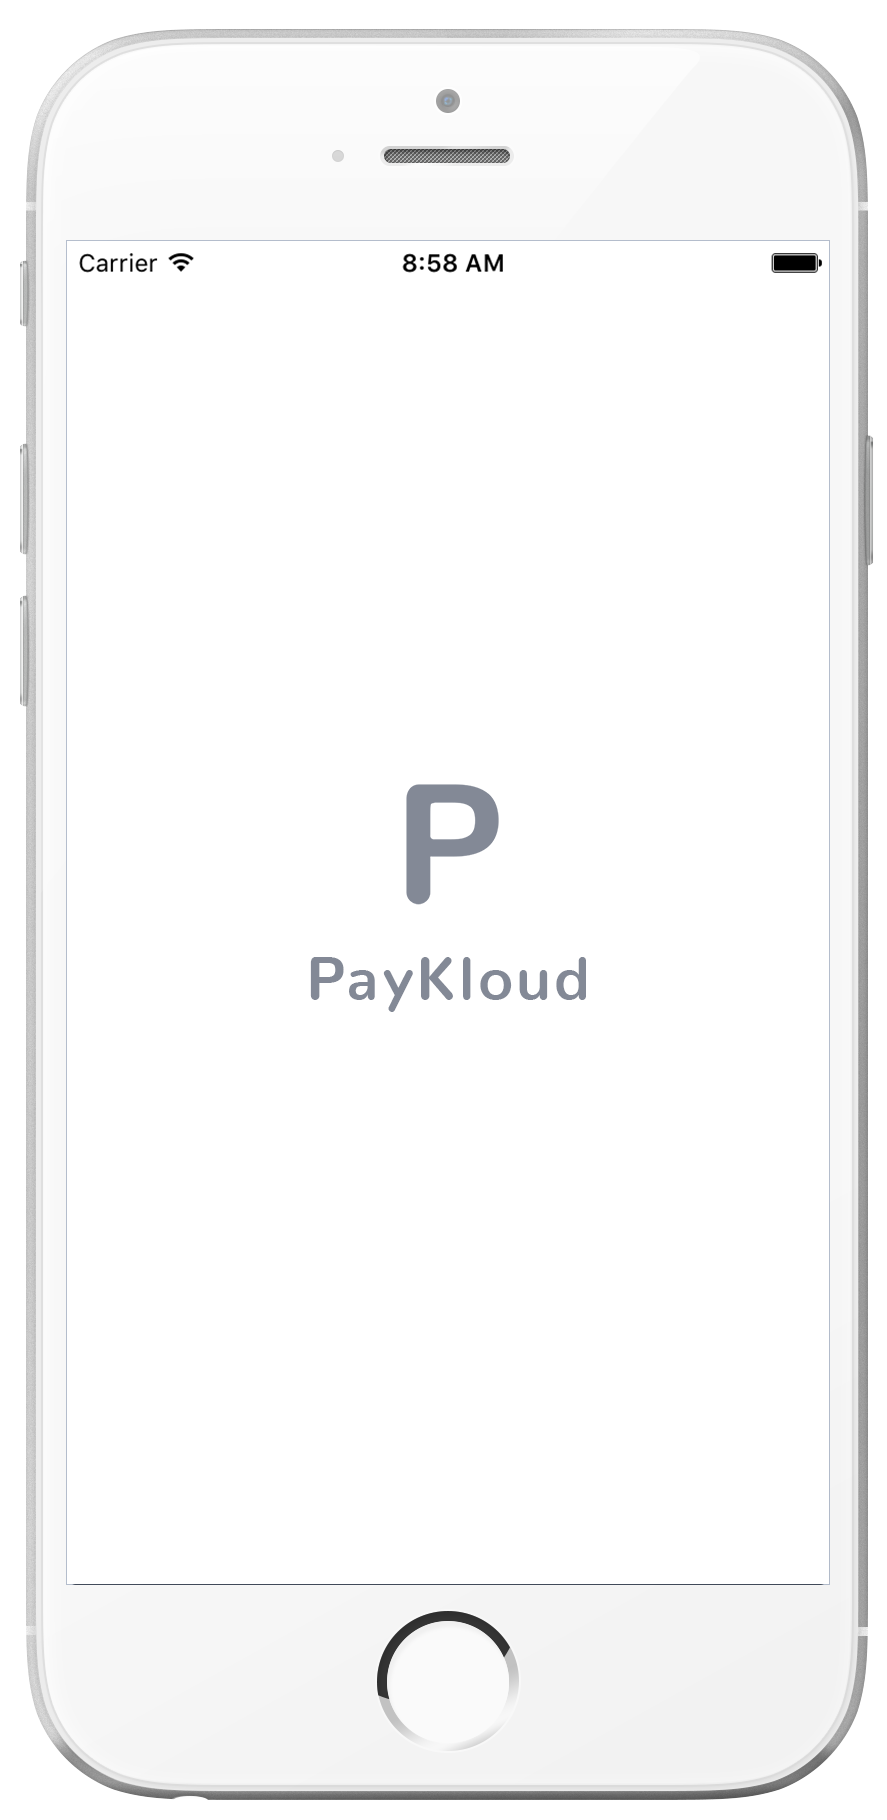
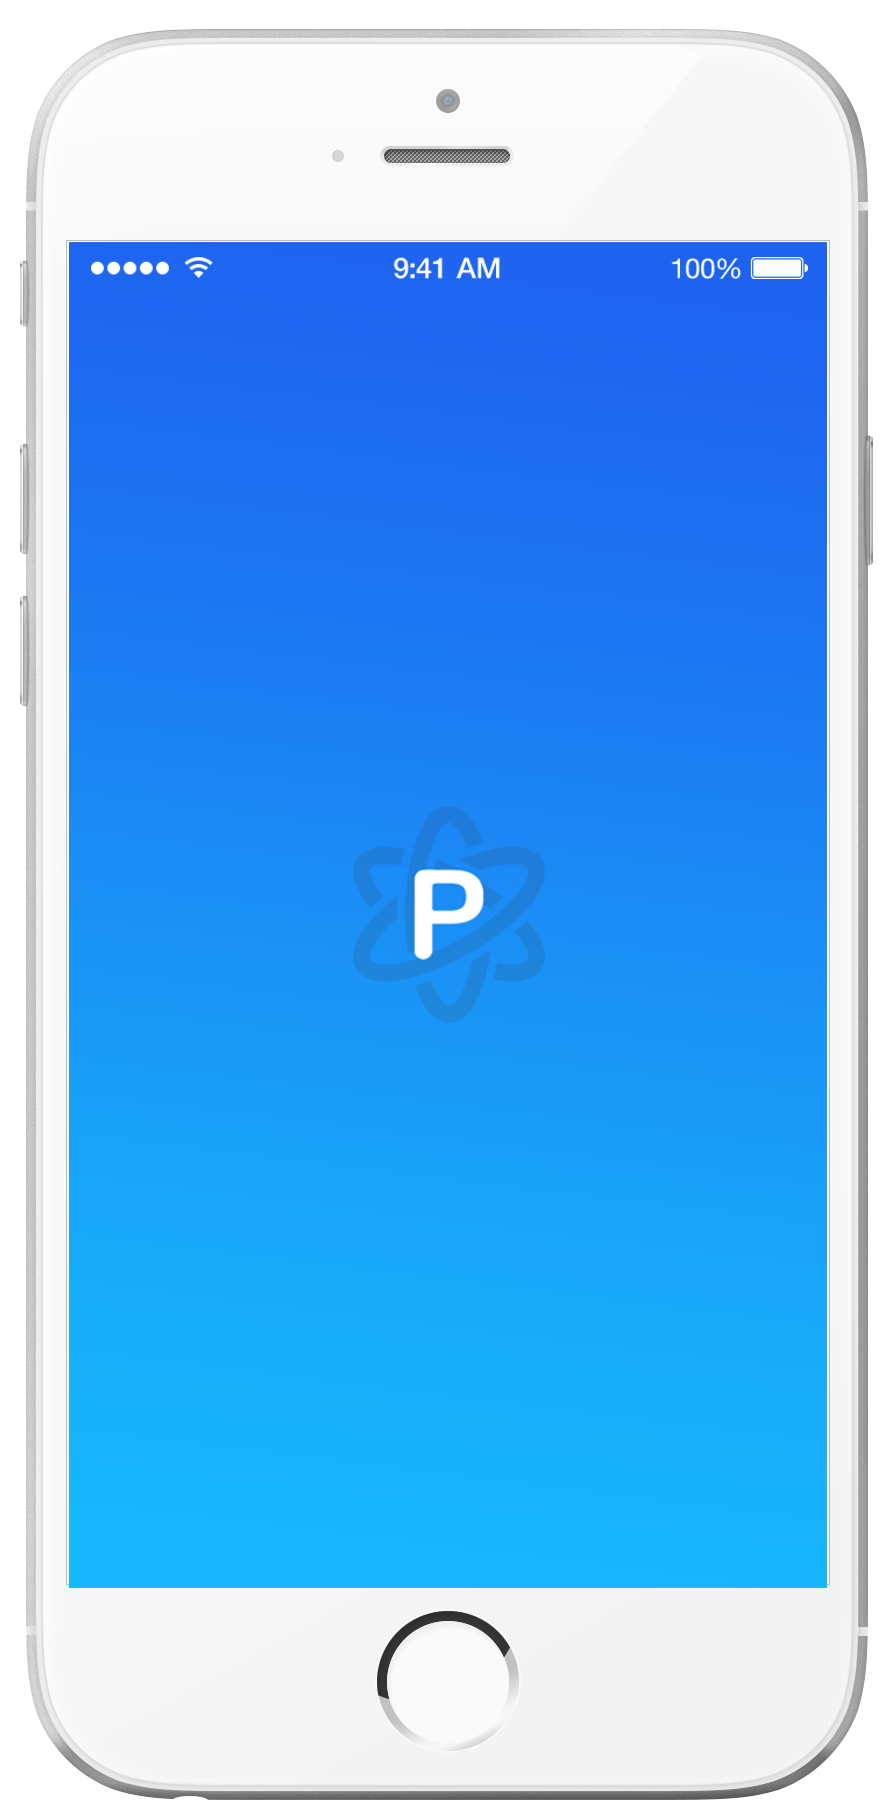
update home page to proton

diff --git a/src/app/index.js b/src/app/index.js
@@ -1,3 +1,45 @@
+(function() {
+    'use strict';
+    // THIS FILE IS IS IGNORED BY .ebignore AND .gitignore TO PREVENT ACCIDENTAL CHANGES TO API ROOT URL CONFIG IN PRODUCTION
+    var app = angular.module('app', [
+        'app.entity'
+    ])
+    // DEFAULT USED AT LOGIN ** EDIT THIS BEFORE RELEASING PRODUCTION // EDIT IP TO RUN LOCALLLY OVER NETWORK
+    .value('appconfig',{
+            apiRoot: 'http://192.168.1.182:5001',
+            firebaseUrl: 'https://demosandbox.firebaseio.com/api/v1'
+    })
+    .config(['stripeProvider', 'notificationsConfigProvider', function (stripeProvider, notificationsConfigProvider) {
+        // ***CHANGE STRIPE KEY BEFORE RELEASING PRODUCTIONS***
+        // Prod Stripe Pub Key
+        // stripeProvider.setPublishableKey('pk_live_9kfmn7pMRPKAYSpcf1Fmn266');
+        // Dev Stripe Pub Key
+        stripeProvider.setPublishableKey('pk_test_6MOTlPN5JrNS5dIN4DUeKFDA');
+        // auto hide
+        notificationsConfigProvider.setAutoHide(true);
+
+        // delay before hide
+        notificationsConfigProvider.setHideDelay(3000);
+
+        // support HTML
+        notificationsConfigProvider.setAcceptHTML(false);
+   
+    }])
+    .run(['$http', '$rootScope','appconfig', 'UserFactory', function($http, $rootScope, appconfig, UserFactory) {
+        UserFactory.getProfile().then(function (res) {
+            if(res.data.env == 'DEV') {
+                appconfig.apiRoot = 'http://192.168.1.182:5001';
+                appconfig.firebaseUrl = 'https://demosandbox.firebaseio.com/api/v1'
+            } else if(res.data.env == 'PROD') {
+                appconfig.apiRoot = 'http://paykloud-api-dev.us-east-1.elasticbeanstalk.com';
+                appconfig.firebaseUrl = 'https://paykloud.firebaseio.com/api/v1'
+            }
+        })
+    }])
+
+
+})();
+
 // (function() {
 //     'use strict';
 //     // THIS FILE IS IS IGNORED BY .ebignore AND .gitignore TO PREVENT ACCIDENTAL CHANGES TO API ROOT URL CONFIG IN PRODUCTION
@@ -5,16 +47,18 @@
 //         'app.entity'
 //     ])
 //     // DEFAULT USED AT LOGIN ** EDIT THIS BEFORE RELEASING PRODUCTION
+//     // API endpoints
+//     // http://api.paykloud.com
+//     // http://dev.paykloud.com
+//     // http://paykloud-api-dev.us-east-1.elasticbeanstalk.com
 //     .value('appconfig',{
-//             apiRoot: 'http://localhost:5001',
-//             firebaseUrl: 'https://demosandbox.firebaseio.com/api/v1'
+//             apiRoot: 'http://paykloud-api-dev.us-east-1.elasticbeanstalk.com',
+//             firebaseUrl: 'https://paykloud.firebaseio.com/api/v1'
 //     })
 //     .config(['stripeProvider', 'notificationsConfigProvider', function (stripeProvider, notificationsConfigProvider) {
 //         // ***CHANGE STRIPE KEY BEFORE RELEASING PRODUCTIONS***
 //         // Prod Stripe Pub Key
-//         // stripeProvider.setPublishableKey('pk_live_9kfmn7pMRPKAYSpcf1Fmn266');
-//         // Dev Stripe Pub Key
-//         stripeProvider.setPublishableKey('pk_test_6MOTlPN5JrNS5dIN4DUeKFDA');
+//         stripeProvider.setPublishableKey('pk_live_9kfmn7pMRPKAYSpcf1Fmn266');
 //         // auto hide
 //         notificationsConfigProvider.setAutoHide(true);
 
@@ -36,50 +80,4 @@
 //             }
 //         })
 //     }])
-
-
 // })();
-
-(function() {
-    'use strict';
-    // THIS FILE IS IS IGNORED BY .ebignore AND .gitignore TO PREVENT ACCIDENTAL CHANGES TO API ROOT URL CONFIG IN PRODUCTION
-    var app = angular.module('app', [
-        'app.entity'
-    ])
-    // DEFAULT USED AT LOGIN ** EDIT THIS BEFORE RELEASING PRODUCTION
-    // API endpoints
-    // http://api.paykloud.com
-    // http://dev.paykloud.com
-    // http://paykloud-api-dev.us-east-1.elasticbeanstalk.com
-    .value('appconfig',{
-            apiRoot: 'http://paykloud-api-dev.us-east-1.elasticbeanstalk.com',
-            firebaseUrl: 'https://paykloud.firebaseio.com/api/v1'
-    })
-    .config(['stripeProvider', 'notificationsConfigProvider', function (stripeProvider, notificationsConfigProvider) {
-        // ***CHANGE STRIPE KEY BEFORE RELEASING PRODUCTIONS***
-        // Prod Stripe Pub Key
-        stripeProvider.setPublishableKey('pk_live_9kfmn7pMRPKAYSpcf1Fmn266');
-        // auto hide
-        notificationsConfigProvider.setAutoHide(true);
-
-        // delay before hide
-        notificationsConfigProvider.setHideDelay(3000);
-
-        // support HTML
-        notificationsConfigProvider.setAcceptHTML(false);
-   
-    }])
-    .run(['$http', '$rootScope','appconfig', 'UserFactory', function($http, $rootScope, appconfig, UserFactory) {
-        UserFactory.getProfile().then(function (res) {
-            if(res.data.env == 'DEV') {
-                appconfig.apiRoot = 'http://localhost:5001';
-                appconfig.firebaseUrl = 'https://demosandbox.firebaseio.com/api/v1'
-            } else if(res.data.env == 'PROD') {
-                appconfig.apiRoot = 'http://paykloud-api-dev.us-east-1.elasticbeanstalk.com';
-                appconfig.firebaseUrl = 'https://paykloud.firebaseio.com/api/v1'
-            }
-        })
-    }])
-
-
-})();

diff --git a/www/web/assets/css/landing-page.css b/www/web/assets/css/landing-page.css
@@ -30,14 +30,18 @@ h4, .h4 {
 }
 
 h5, .h5 {
-  font-size: 18px;
+  font-family: sans-serif;
+  font-weight: thin;
+  font-family: 'Open Sans';
+  letter-spacing: 1px;
+  font-size: 16px;
   margin-bottom: 15px;
 }
 
 h6, .h6 {
   font-size: 14px;
-  font-weight: 200;
-  font-family: 'Nunito';
+  font-weight: 300;
+  font-family: 'Open Sans';
   letter-spacing: 1px;
 }
 
@@ -46,9 +50,28 @@ p {
   line-height: 1.5;
 }
 
+.pretty-font {
+  font-family: 'Open Sans';  
+  font-weight: 300;
+  letter-spacing: 1px;
+}
+
+.big-font {
+  font-size: 24px;
+}
+
+.giga-font {
+  font-size:36px;
+}
+
 .brand-style {
   font-family:'Nunito', sans-serif;
   letter-spacing: 2px;
+}
+
+.font-style {
+  font-family:'Nunito', sans-serif;
+  font-size: 14px;
 }
 
 /*     General overwrite     */
@@ -66,6 +89,18 @@ a:hover, a:focus {
 
 a:focus, a:active {
   outline: 0;
+}
+
+.white, a.white:hover {
+  color:white;
+}
+
+.slate {
+  color: #424b5d;
+}
+
+.gray {
+  color:gray;
 }
 
 .navbar {
@@ -1041,9 +1076,7 @@ filter: progid:DXImageTransform.Microsoft.gradient( startColorstr='#de8e0009', e
 
 .landing-page .parallax .description h5 {
   line-height: 1.4;
-  font-weight: 400;
   /*text-shadow: 0 1px 5px rgba(0,0,0,0.5);*/
-  font-size: 18px;
 }
 
 .landing-page .parallax .buttons{
@@ -1183,6 +1216,9 @@ filter: progid:DXImageTransform.Microsoft.gradient( startColorstr='#de8e0009', e
         border-radius: 10px;
         margin-top: 30px;
         text-align: center;
+        background: black;
+        color:white;
+        background:linear-gradient(to bottom, rgba(23, 152, 251, 1), rgba(30, 102, 239, 1));
    }
    .landing-page .section-features .card .icon i{
         font-size: 63px;
@@ -1408,7 +1444,7 @@ filter: progid:DXImageTransform.Microsoft.gradient( startColorstr='#de8e0009', e
 }
 
 .fixed-plugin h5{
-    font-size: 1em;
+    /*font-size: 1em;*/
 }
 .fixed-plugin .dropdown-menu li{
     display: block;

diff --git a/src/app/modules/global/common/notifications.js b/src/app/modules/global/common/notifications.js
@@ -62,17 +62,13 @@
                         positionClass: 'toast-bottom-left'                        
                     });     
                 } else {
-                    notificator.info('Welcome ' + $rootScope.user.username + '!', {
-                        timeOut: 2000,
-                        positionClass: 'toast-bottom-left'                                                
-                    });  
-                    notificator.success('Protip: You can control the time tracker with the spacebar!', {
-                        timeOut: 20000,
-                        positionClass: 'toast-bottom-left'                                          
-                    });    
-                    notificator.success('Click help on the bottom right side for information about TimeKloud usage', {
+                    notificator.info('Click help on the bottom right side for information about PayKloud usage', {
                         timeOut: 20000,
                         positionClass: 'toast-bottom-right'                                          
+                    });  
+                    notificator.info('Welcome ' + $rootScope.user.username + '!', {
+                        timeOut: 6000,
+                        positionClass: 'toast-bottom-left'                                                
                     });                                                              
                 }              
             },1000);

diff --git a/src/app/modules/global/profile/auth/login.html b/src/app/modules/global/profile/auth/login.html
@@ -1,11 +1,11 @@
 <div class="" style="     background: #00396f;
-      background:linear-gradient(to top right, rgba(83, 172, 238, 0.1) 10%, rgba(255, 124, 157, 0.1) 65%, rgba(255, 192, 26, 0.1) 125%), url('app/img/desk.jpg');
+      background:linear-gradient(to top, rgba(30, 102, 239, 1), rgba(23, 184, 251, 1));
   background-attachment: fixed,             fixed,              fixed;
   background-position: center center;  background-position: center center;
   background-repeat: no-repeat;
   background-attachment: fixed;
   background-size: cover;height:100%;">
-  <a style="font-size:20px;position:absolute;padding:15px;top:0px;right:10px;z-index:9999;" href="/register" class="text-darklight">Sign Up<i style="color:white;padding-left:10px;" class="ion ion-ios-arrow-forward ion-3x"></i></a>
+  <!--<a style="font-size:20px;position:absolute;padding:15px;top:0px;right:10px;z-index:9999;" href="/register" class="text-darklight">Sign Up<i style="color:white;padding-left:10px;" class="ion ion-ios-arrow-forward ion-3x"></i></a>-->
   <a style="font-size:20px;position:absolute;padding:15px;top:0px;left:10px;z-index:9999;" href="/home" target="_self" class="text-darklight"><i style="color:white;padding-right:10px;" class="ion ion-ios-arrow-back ion-3x"></i></a>
   <div class="inner-container">
   <div class="hidden-xs text-center">

diff --git a/src/app/modules/global/profile/auth/forgot.html b/src/app/modules/global/profile/auth/forgot.html
@@ -1,5 +1,5 @@
 <div class="" style="     background: #00396f;
-      background:linear-gradient(to top right, rgba(83, 172, 238, 0.1) 10%, rgba(255, 124, 157, 0.1) 65%, rgba(255, 192, 26, 0.1) 125%), url('app/img/desk.jpg');
+      background:linear-gradient(to top, rgba(30, 102, 239, 1), rgba(23, 184, 251, 1));background-size: cover;
   background-position: center center;  background-position: center center;
   background-repeat: no-repeat;
   background-attachment: fixed;

diff --git a/src/app/modules/global/profile/auth/register.html b/src/app/modules/global/profile/auth/register.html
@@ -1,5 +1,5 @@
 <div class="" style="     background: #00396f;
-      background:linear-gradient(to top right, rgba(83, 172, 238, 0.1) 10%, rgba(255, 124, 157, 0.1) 65%, rgba(255, 192, 26, 0.1) 125%), url('app/img/desk.jpg');
+      background:linear-gradient(to top, rgba(30, 102, 239, 1), rgba(23, 184, 251, 1));
   background-position: center center;  background-position: center center;
   background-repeat: no-repeat;
   background-attachment: fixed;

diff --git a/src/app/modules/global/profile/auth/reset.html b/src/app/modules/global/profile/auth/reset.html
@@ -1,5 +1,5 @@
 <div class="" style="     background: #00396f;
-      background:linear-gradient(to top right, rgba(83, 172, 238, 0.1) 10%, rgba(255, 124, 157, 0.1) 65%, rgba(255, 192, 26, 0.1) 125%), url('app/img/desk.jpg');
+      background:linear-gradient(to top, rgba(30, 102, 239, 1), rgba(23, 184, 251, 1));
   background-position: center center;  background-position: center center;
   background-repeat: no-repeat;
   background-attachment: fixed;
